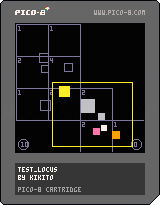
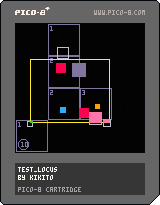
update README image link

Changed region(s): [[0.0938, 0.1171, 0.9062, 0.761]]

diff --git a/README.md b/README.md
@@ -18,7 +18,7 @@ This is useful in several scenarios:
 * Given that the query area is rectangular, locus can be used to optimize the draw stage, by "only rendering objects that intersect with the screen"
 
 
-[![locus demo](https://www.lexaloffle.com/bbs/cposts/te/test_locus-1.p8.png)](https://www.lexaloffle.com/bbs/cart_info.php?cid=test_locus-1)
+[![locus demo](https://www.lexaloffle.com/bbs/cposts/te/test_locus-2.p8.png)](https://www.lexaloffle.com/bbs/cart_info.php?cid=test_locus-2)
 
 
 # API
